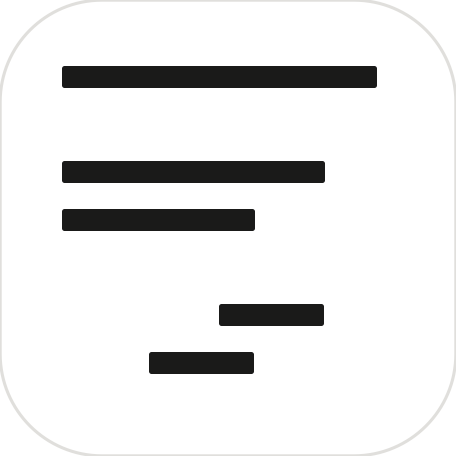
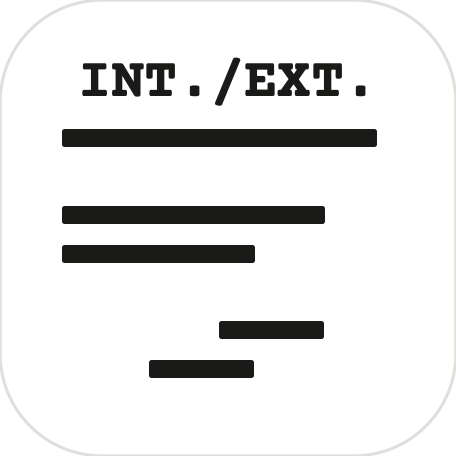
feat(intext): the tile's first line is the mark — INT./EXT. over the scrap; the masthead whispers
The icon reads as a page again: INT./EXT. (tight, bold Courier) set as the
slug at the top of the tile, the familiar redacted excerpt beneath it. Below
64px the scrap stands alone, as it always did. In the masthead the wordmark
drops to .94rem at 55% ink and sits a step right of the traffic lights —
present, not shouting.

diff --git a/pica/mac/makeicon.swift b/pica/mac/makeicon.swift
@@ -1,4 +1,5 @@
-// PICA icon — black on white: an actual scrap of screenplay.
+// INT./EXT. icon — black on white: the mark across the top, and beneath it the same
+// scrap of screenplay the app has always worn — slug, action, cue, dialogue as bars.
 // At 128px and up it sets real Courier text at true screenplay indents — slug, action,
 // character cue, dialogue. Below that the type would turn to mud, so it falls back to the
 // same excerpt drawn as bars, keeping the silhouette identical at every size.
@@ -18,8 +19,16 @@ let script: [(Int, String)] = [
 ]
 let cols = 19          // characters across the measure
 
+func drawLine(_ ctx: CGContext, _ text: String, font: CTFont, ink: CGColor, centreX: Double, baselineY: Double) {
+    let attrs: [NSAttributedString.Key: Any] = [.font: font, .foregroundColor: ink]
+    let line = CTLineCreateWithAttributedString(NSAttributedString(string: text, attributes: attrs))
+    let width = CTLineGetTypographicBounds(line, nil, nil, nil)
+    ctx.textPosition = CGPoint(x: centreX - width / 2, y: baselineY)
+    CTLineDraw(line, ctx)
+}
+
 func courier(_ size: Double) -> CTFont {
-    let candidates = ["../fonts/CourierPrime-Regular.ttf", "fonts/CourierPrime-Regular.ttf"]
+    let candidates = ["../fonts/CourierPrime-Bold.ttf", "fonts/CourierPrime-Bold.ttf"]
     for p in candidates where FileManager.default.fileExists(atPath: p) {
         let url = URL(fileURLWithPath: p) as CFURL
         if let descs = CTFontManagerCreateFontDescriptorsFromURL(url) as? [CTFontDescriptor],
@@ -55,7 +64,17 @@ func render(size S: Int) -> CGImage {
 
     let ink = CGColor(red: 0.078, green: 0.078, blue: 0.075, alpha: 1)
     let inset = S <= 40 ? 0.165 : 0.175
-    let box = CGRect(x: s * inset, y: s * inset, width: s * (1 - inset * 2), height: s * (1 - inset * 2))
+    // the mark takes the top of the measure; the scrap keeps the rest. Below 64px nine
+    // characters are mud, so the scrap stands alone as it always did.
+    let full = CGRect(x: s * inset, y: s * inset, width: s * (1 - inset * 2), height: s * (1 - inset * 2))
+    var box = full
+    if S >= 64 {
+        let fs = full.width / 9.0 * 1.5          // "INT./EXT." — nine cells, comfortably full
+        let font = courier(fs)
+        drawLine(ctx, "INT./EXT.", font: font, ink: ink,
+                 centreX: s / 2, baselineY: full.maxY - fs * 0.62)
+        box = CGRect(x: full.minX, y: full.minY, width: full.width, height: full.height - fs * 1.15)
+    }
     let rowH = box.height / Double(script.count)
     let adv = box.width / Double(cols)          // one character cell
 

diff --git a/pica/index.html b/pica/index.html
@@ -131,7 +131,8 @@ header{
 .hzone{ display:flex; align-items:center; gap:1.35rem; min-width:0; }
 .hzone.left{ grid-column:1; }
 .hzone.right{ grid-column:3; justify-content:flex-end; }
-.wordmark{ font-family:var(--courier); font-size:1.12rem; letter-spacing:.045em; white-space:nowrap; }
+.wordmark{ font-family:var(--courier); font-size:.94rem; letter-spacing:.045em; white-space:nowrap;
+  opacity:.55; margin-left:1.1rem; }   /* quieter than the script, seated between the lights and the page */
 #docTitle{
   font-family:var(--mono); font-size:.76rem; letter-spacing:.2em; text-transform:uppercase;
   color:var(--ink); outline:none; padding:.22rem .7rem; border-bottom:1px dashed transparent;
